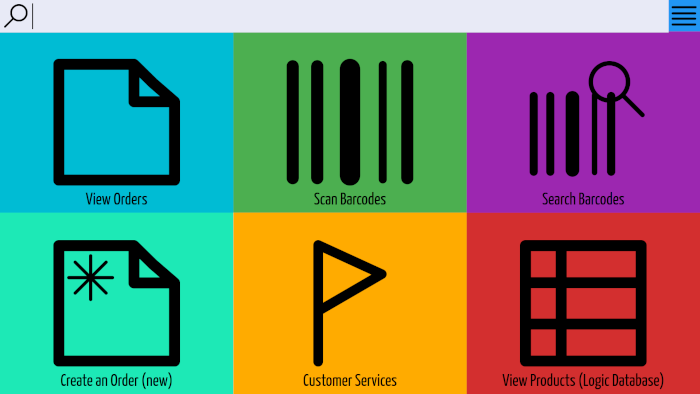
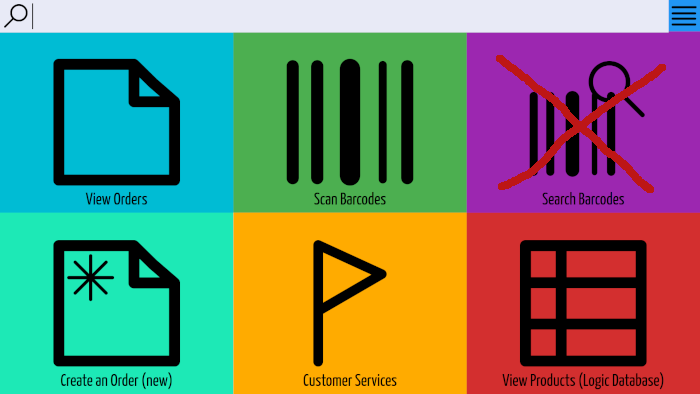
update README

Changed region(s): [[0.69, 0.1218, 0.96, 0.4873]]

diff --git a/README.md b/README.md
@@ -2,10 +2,13 @@
 
 * [View Orders](#view-orders)
 * [Scan Barcodes](#scan-barcodes)
+* [Create an Order](#create-an-order)
 
 The initial splash screen (known as Ground Control) displays the following six operations:
 
 ![Image of Ground Control](docs/imgs/ground_control.png)
+
+**Search Barcodes is not used**
 
 A further dozen or so operations are available in the drop-down menu:
 
@@ -46,4 +49,9 @@ Nb. grey are orders that don't yet have a barcode
 The barcode scanner can only input barcodes if the page is in focus (green background). To signal this, the background turns red when focus is lost.
 
 ![Image of Scan Barcodes](docs/imgs/scan_barcodes_red.png)
+
+
+## Create an Order
+
+![Image of Create an Order](docs/imgs/create-an-order.png)
 
